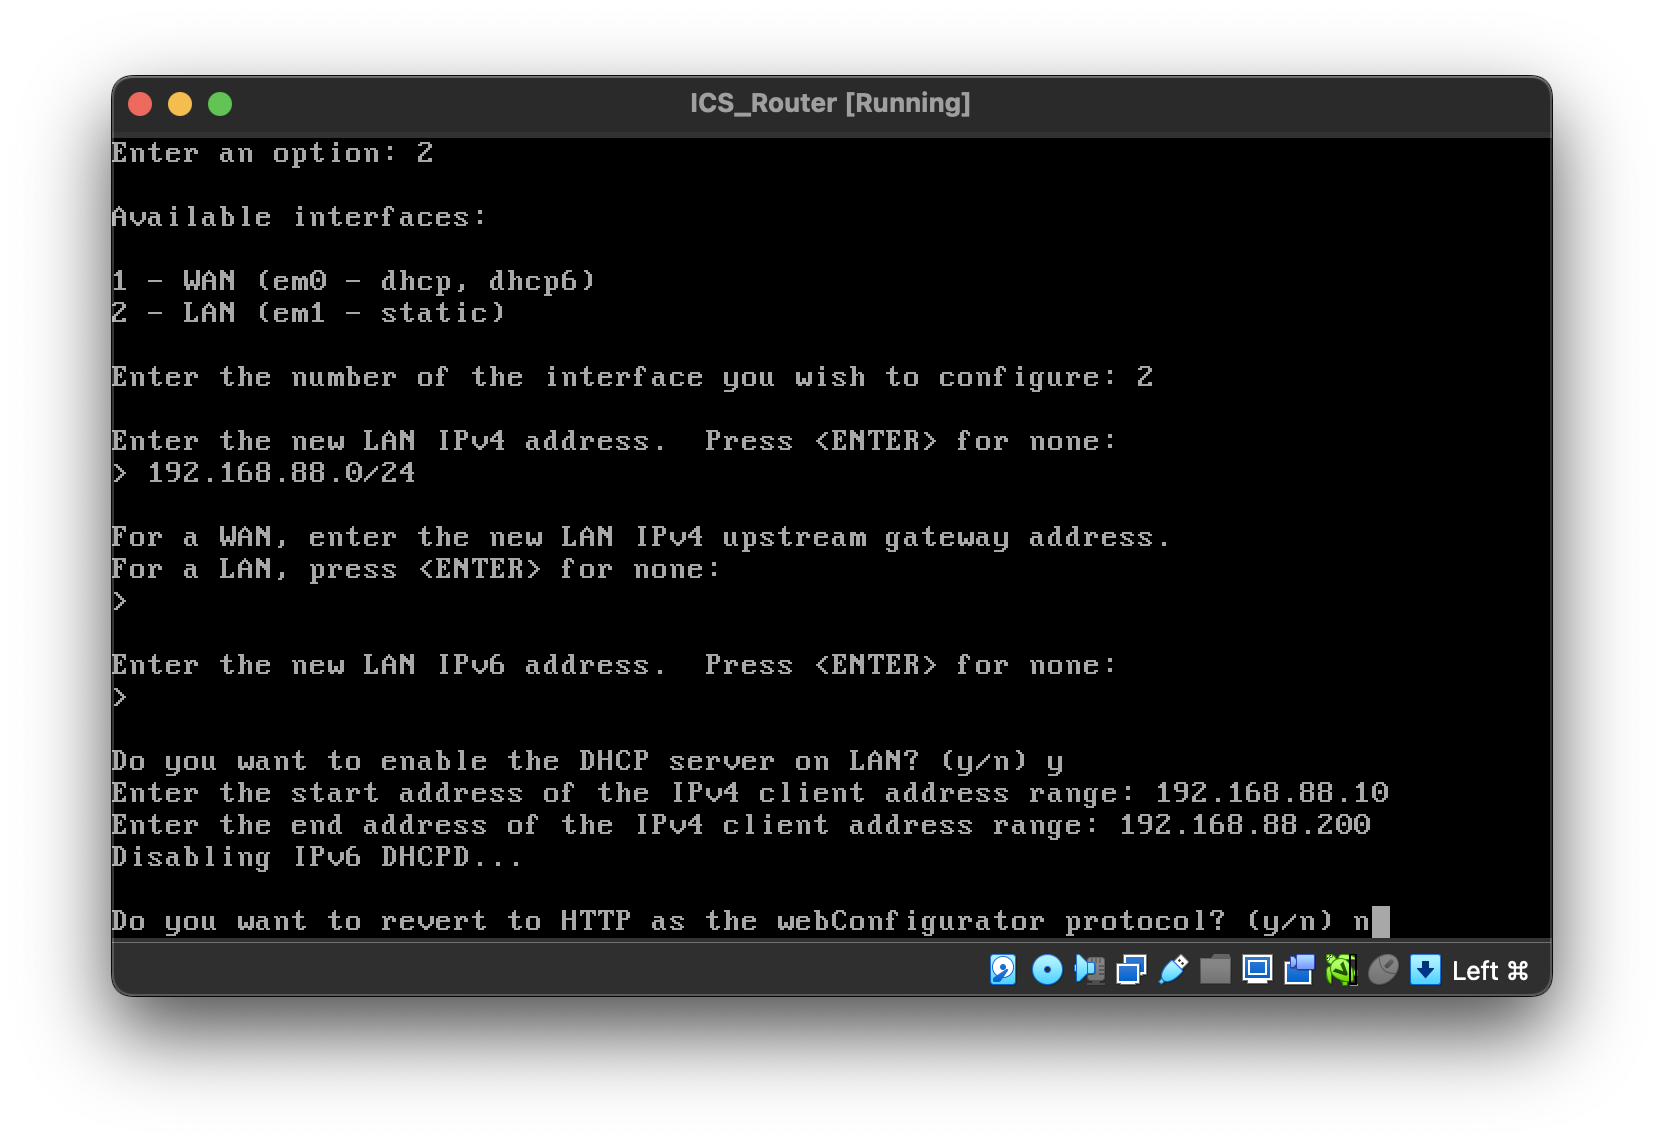
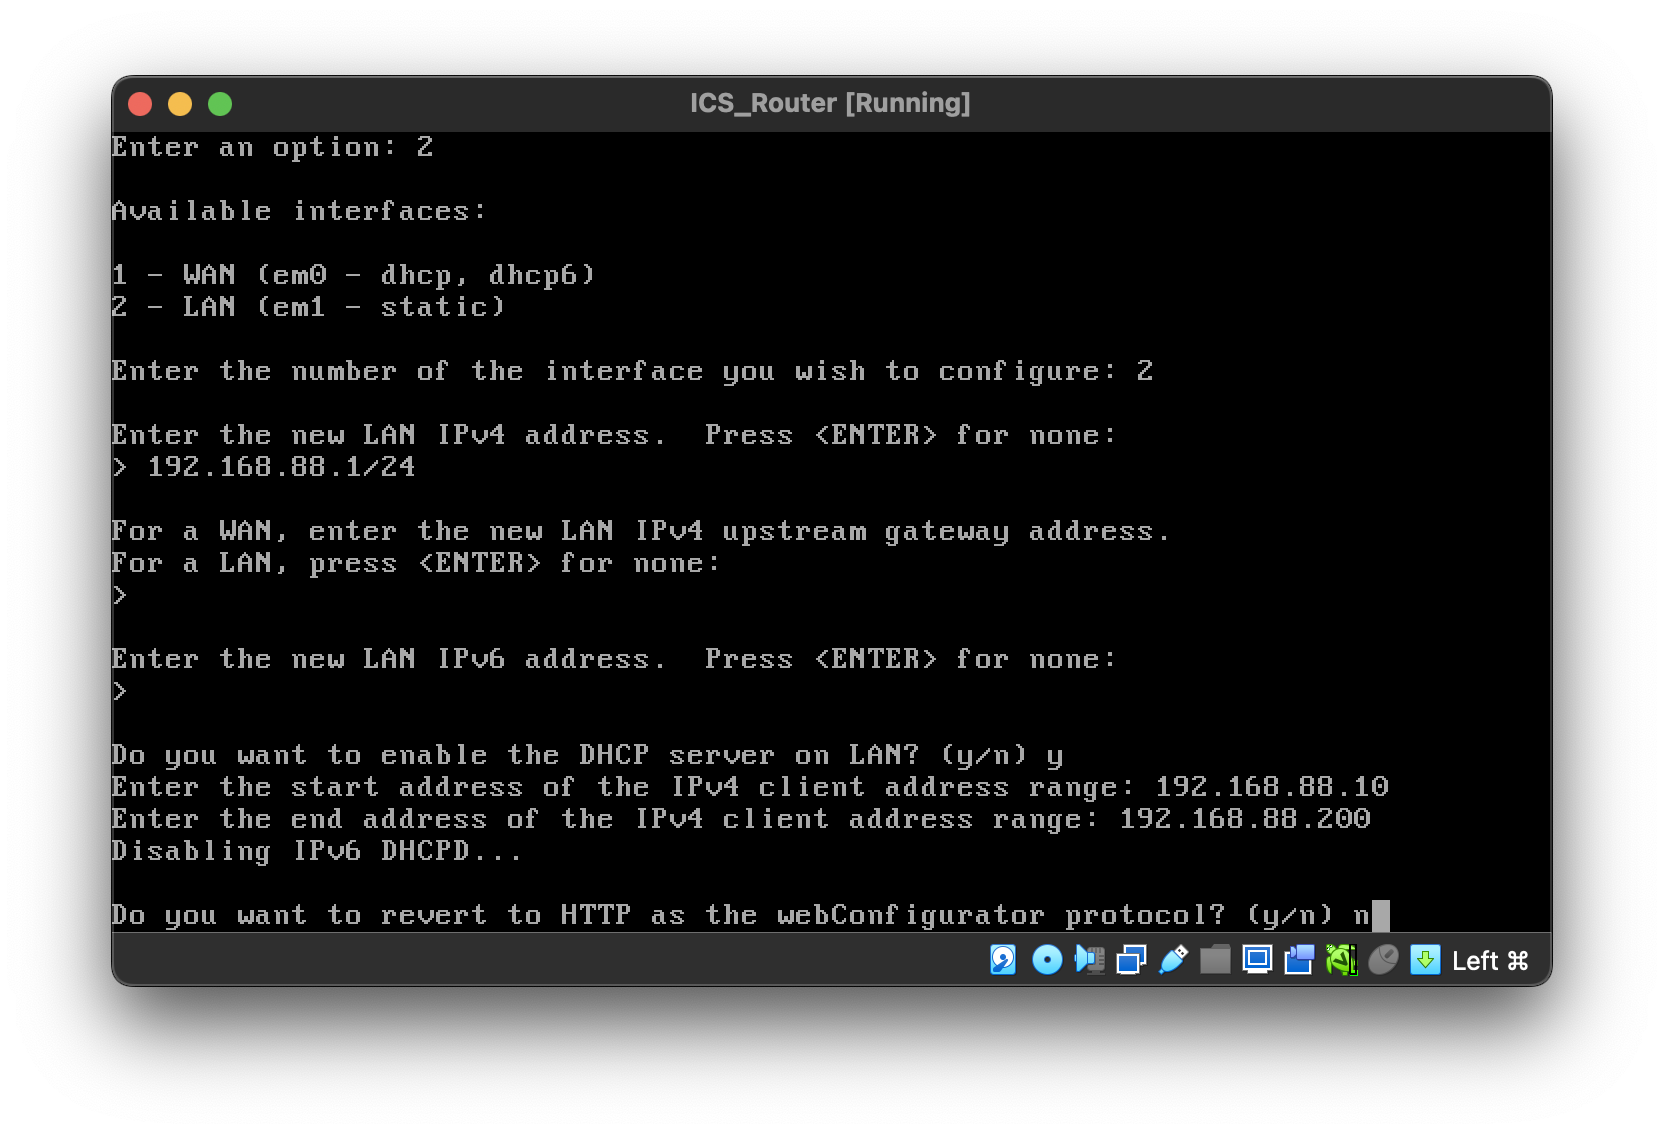
step2 instruction

diff --git a/Setup/2_static_ip.md b/Setup/2_static_ip.md
@@ -1,0 +1,27 @@
+## Step 2: Configuring Static IP addresses for each machines
+
+This step will be about setting up static IP for each VMs. We have two network, one ICS and one corporate. We want to set it up, so each network have the following attributes.
+
+### The ICS network
+* A human machine interface (Windows 10) at 192.168.88.204
+* An engineering workstation (Windows 10) at 192.168.88.201
+* A programmable logic controller (Docker) at 192.168.88.10
+  (ignore for now)
+
+### The corporate network
+* An engineering workstation (the same one as in ICS) at 192.168.89.201
+* An attacker machine (Kali Linux) at 192.168.89.203
+
+The steps to get to the desired network structure is:
+
+* In step 1, when we finished setting up the router, we should get an address for the webConfigurator portal. (ICS: 192.168.88.1 and Corp: 192.168.89.1)
+* Open the webConfigurator portal of both routers.
+* Login using username: admin, password: pfsense
+* For every VMs, go to Setting > Network
+* Change Adapter 1 from NAT to Host-only network, attach it to the network that VM belongs to.* ![](images/vmattach.png)
+* Turn on the VM
+* In the webConfigurator, the VM should show up in Status > DHCP leases.
+* Edit the device's static lease accoding to the IP given above. ![](images/staticlease.png) ![](images/staticlease2.png)
+
+
+\* For the engineering workstation, enable 2 adapters, have one adapter attach to the ICS network and another to the corporate network.
